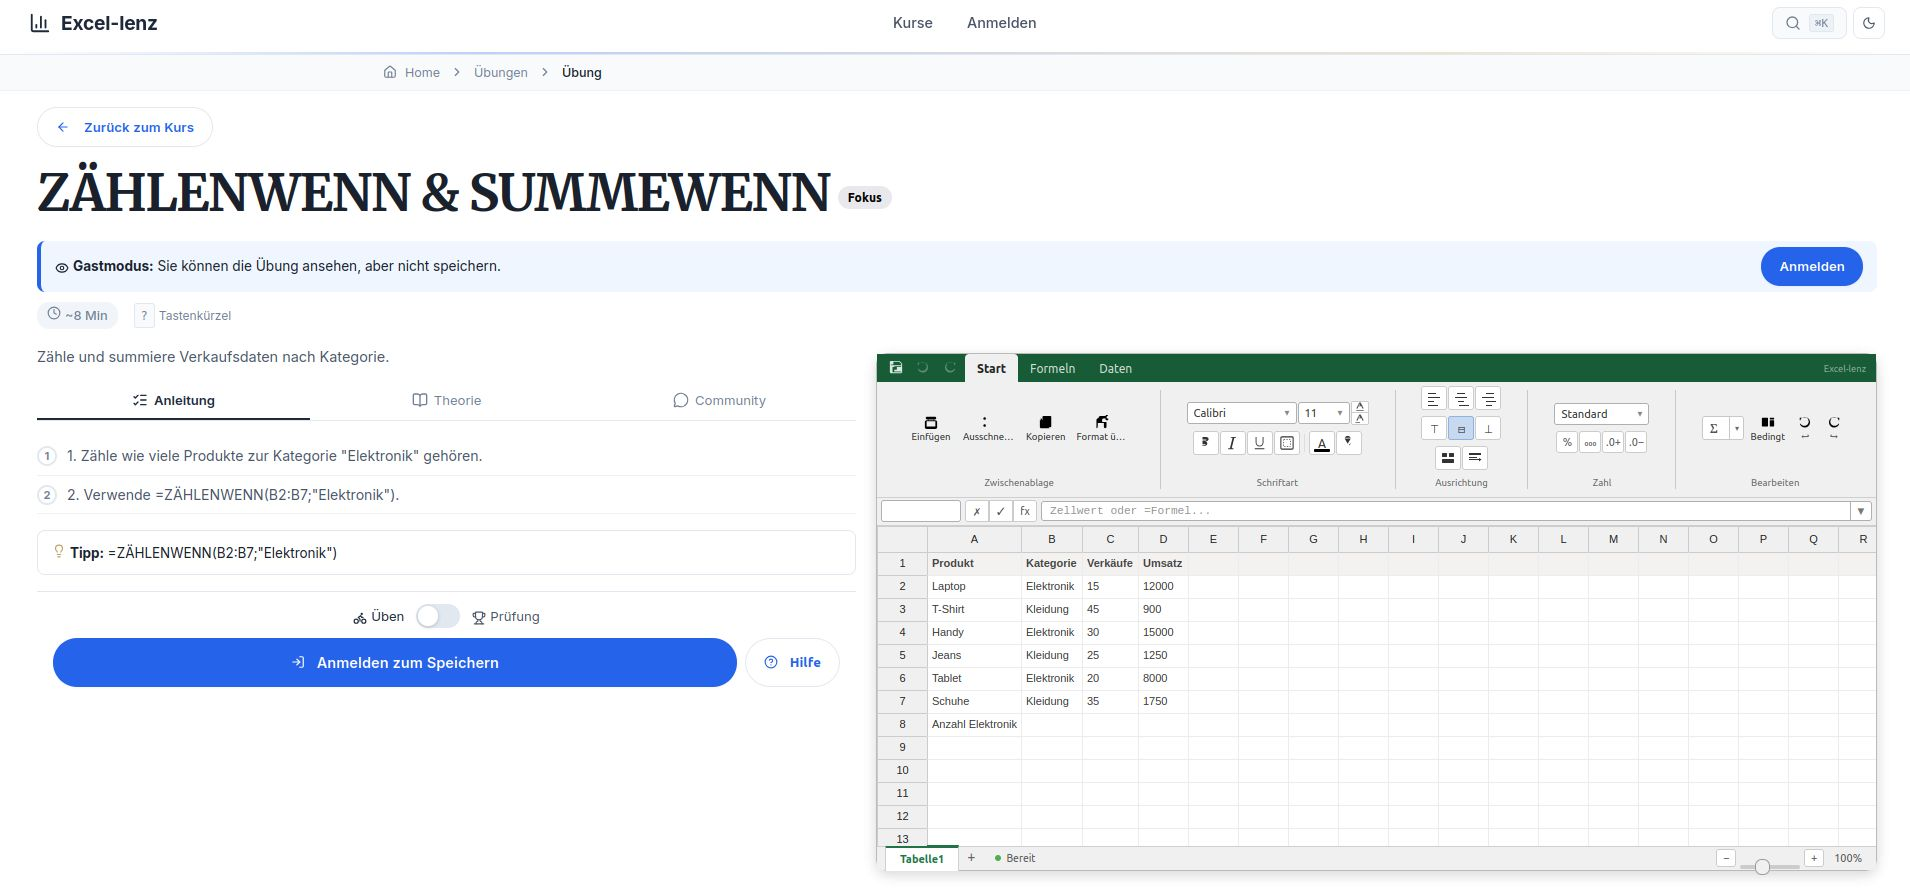
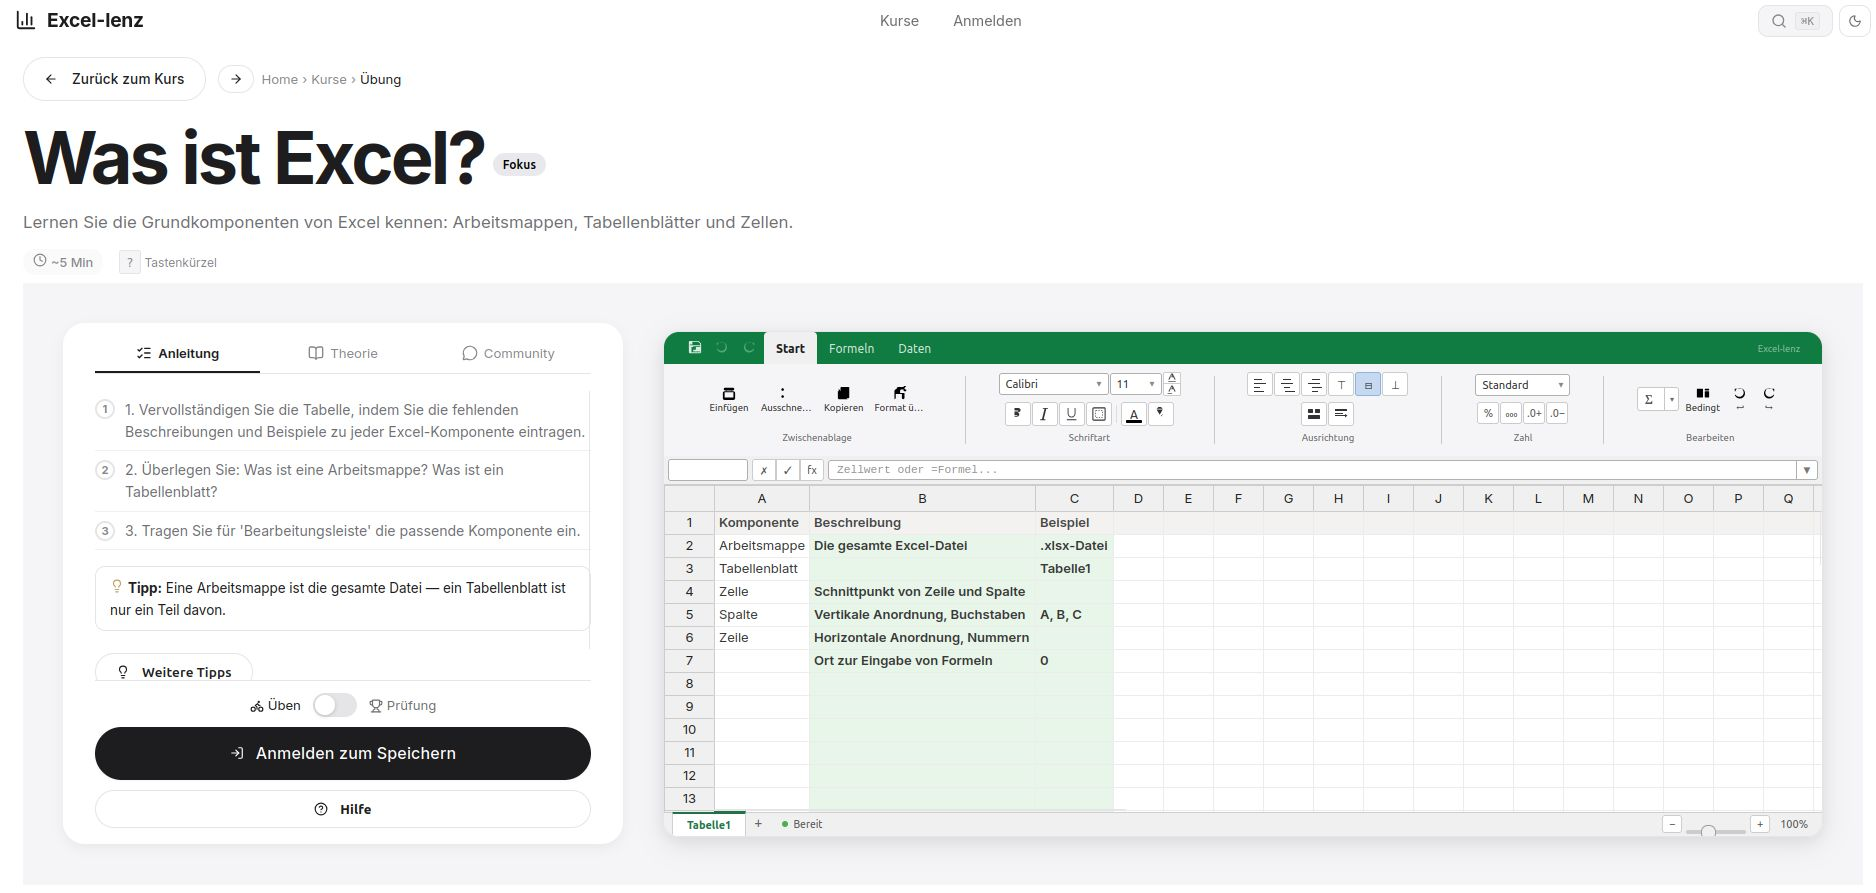
Update files

diff --git a/backend/src/__tests__/exercises.test.ts b/backend/src/__tests__/exercises.test.ts
@@ -1,0 +1,97 @@
+import supertest from 'supertest';
+
+describe('Exercise Routes', () => {
+  let app: any;
+  let token: string;
+
+  beforeAll(async () => {
+    process.env.JWT_SECRET = 'test-secret-key-for-jest';
+    process.env.DB_PATH = ':memory:';
+    process.env.SEED_PASSWORD = 'test-password';
+
+    // Seed DB first, then import server
+    const { seed } = await import('../db/seed');
+    seed();
+
+    const { default: expressApp } = await import('../server');
+    app = expressApp;
+
+    // Register user for authenticated requests
+    const res = await supertest(app)
+      .post('/api/auth/register')
+      .send({ email: 'test@ex.com', password: 'test1234', name: 'Tester' });
+    token = res.body.token;
+  });
+
+  it('GET /api/courses returns course list', async () => {
+    const res = await supertest(app).get('/api/courses');
+    expect(res.status).toBe(200);
+    expect(Array.isArray(res.body)).toBe(true);
+    expect(res.body.length).toBeGreaterThanOrEqual(1);
+    expect(res.body[0]).toHaveProperty('title');
+    expect(res.body[0]).toHaveProperty('exercise_count');
+  });
+
+  it('GET /api/exercises/:id returns exercise with template', async () => {
+    // Get a valid exercise ID from courses endpoint
+    const coursesRes = await supertest(app).get('/api/courses');
+    const courseId = coursesRes.body[0].id;
+    const courseRes = await supertest(app).get(`/api/courses/${courseId}`).set('Authorization', `Bearer ${token}`);
+    const exerciseId = courseRes.body.exercises[0].id;
+
+    const res = await supertest(app).get(`/api/exercises/${exerciseId}`).set('Authorization', `Bearer ${token}`);
+    expect(res.status).toBe(200);
+    expect(res.body).toHaveProperty('title');
+    expect(res.body).toHaveProperty('template_data');
+    expect(res.body.template_data).toHaveProperty('taskCols');
+    expect(res.body).toHaveProperty('instructions');
+  });
+
+  it('POST /api/exercises/:id/submit returns score and feedback', async () => {
+    const coursesRes = await supertest(app).get('/api/courses');
+    const courseId = coursesRes.body[0].id;
+    const courseRes = await supertest(app).get(`/api/courses/${courseId}`).set('Authorization', `Bearer ${token}`);
+    const exerciseId = courseRes.body.exercises[0].id;
+    const exRes = await supertest(app).get(`/api/exercises/${exerciseId}`).set('Authorization', `Bearer ${token}`);
+    const template = exRes.body.template_data;
+
+    // Submit the correct solution (use template_data.solution if available, or compute)
+    const res = await supertest(app)
+      .post(`/api/exercises/${exerciseId}/submit`)
+      .set('Authorization', `Bearer ${token}`)
+      .send({ data: template.data.map((row: any[]) => row.map((cell: any) => cell === null ? '' : cell)) });
+
+    expect(res.status).toBe(200);
+    expect(res.body).toHaveProperty('score');
+    expect(res.body).toHaveProperty('correctCells');
+    expect(res.body).toHaveProperty('totalCells');
+  });
+
+  it('POST submit with empty data returns 200 (score 0)', async () => {
+    const coursesRes = await supertest(app).get('/api/courses');
+    const courseId = coursesRes.body[0].id;
+    const courseRes = await supertest(app).get(`/api/courses/${courseId}`).set('Authorization', `Bearer ${token}`);
+    const exerciseId = courseRes.body.exercises[0].id;
+
+    const res = await supertest(app)
+      .post(`/api/exercises/${exerciseId}/submit`)
+      .set('Authorization', `Bearer ${token}`)
+      .send({ data: [] });
+
+    expect(res.status).toBe(200);
+    expect(res.body.score).toBe(0);
+  });
+
+  it('POST submit without auth returns 401', async () => {
+    const coursesRes = await supertest(app).get('/api/courses');
+    const courseId = coursesRes.body[0].id;
+    const courseRes = await supertest(app).get(`/api/courses/${courseId}`).set('Authorization', `Bearer ${token}`);
+    const exerciseId = courseRes.body.exercises[0].id;
+
+    const res = await supertest(app)
+      .post(`/api/exercises/${exerciseId}/submit`)
+      .send({ data: [['test']] });
+
+    expect(res.status).toBe(401);
+  });
+});

diff --git a/backend/src/db/seed.ts b/backend/src/db/seed.ts
@@ -15,7 +15,7 @@ type ExerciseJson = {
   solution: Record<string, unknown>;
   instructions: string;
   order: number;
-  formulaHint?: string;
+  formulaHint?: string | null;
   hint1?: string;
   hint2?: string;
   hint3?: string;
